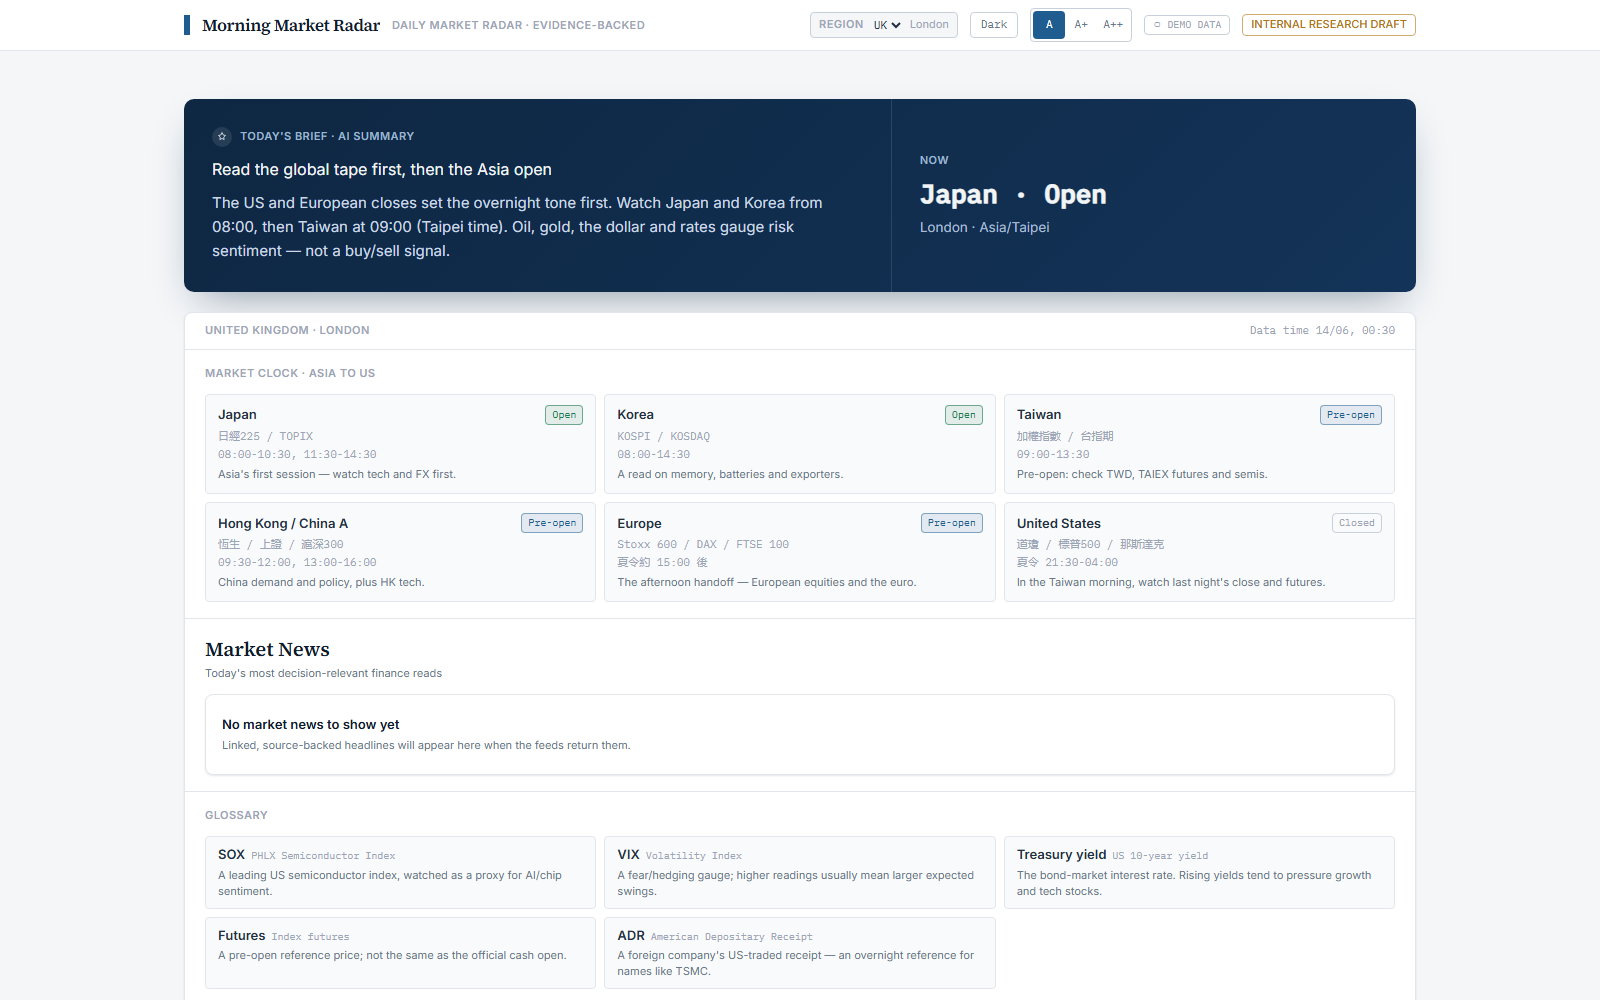
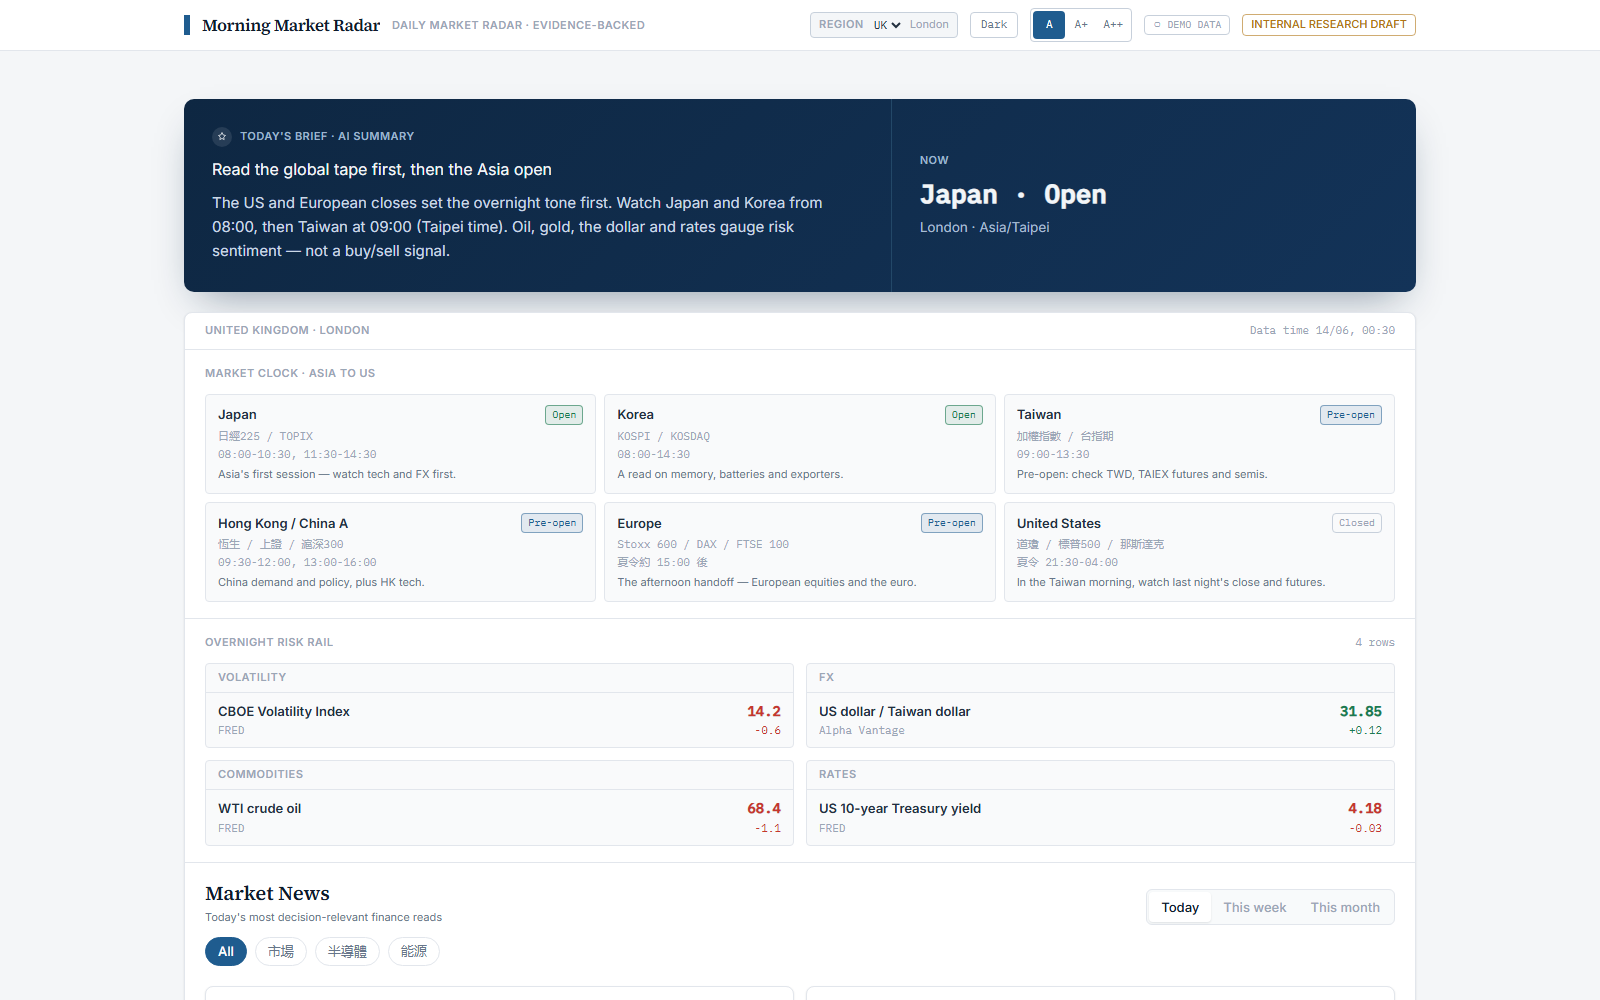
content: phase-2 refresh — rename projects, MoveIn/redteam rebrand, PyPI links (#46)
Project pages
- Agent Release Safety Gates: slug internal-ai-agent-eval-lab ->
  agent-release-gates; add PyPI link, uv/OpenTelemetry to stack, and
  swap metrics to safety recall (90.91%) + side-effect block (100%)
- redteam-foundry: rename from llm-redteam-harness; new foundry-framed
  summary, `pip install redteam-foundry`, PyPI link (v0.2.1 shipped)
- MoveIn: rename from uk-property-analytics; rewrite for the shipped
  Next.js website (Vercel) + public FastAPI (Fly.io), drop the retired
  Streamlit framing. GitHub repo is now `movein`; dead github.io dbt-docs
  report link removed (was 404ing live)

Screenshots (npm run shots)
- Refresh Cited (now shows the live FRED risk rail) and confirm neobank
- New MoveIn capture from the live website; agent screenshot renamed

Site
- Add reusable `pypi` link type + "PyPI" button on project pages
- 308 redirects for all three old /projects slugs -> new
- site-config name -> "Cheng-Yuan King" (shortName stays "Ross King");
  public contact email unchanged
- "Now building": cashflow-risk blurb upgraded (drop "early days")

Verified: 30/30 vitest, tsc, build (23 pages), 14/14 Playwright incl.
axe a11y, check:links 19 ok / 0 / 0, all old slugs 308 to new.

diff --git a/src/app/projects/[slug]/page.tsx b/src/app/projects/[slug]/page.tsx
@@ -1,6 +1,13 @@
 import type { Metadata } from "next";
 import { compileMDX } from "next-mdx-remote/rsc";
-import { ArrowLeft, ExternalLink, FileText, Github, ScrollText } from "lucide-react";
+import {
+  ArrowLeft,
+  ExternalLink,
+  FileText,
+  Github,
+  Package,
+  ScrollText,
+} from "lucide-react";
 import Link from "next/link";
 import { notFound } from "next/navigation";
 import rehypePrettyCode from "rehype-pretty-code";
@@ -160,6 +167,18 @@ export default async function ProjectPage({ params }: ProjectPageProps) {
                   >
                     <ScrollText aria-hidden="true" />
                     Paper
+                  </Link>
+                </Button>
+              )}
+              {project.links.pypi && (
+                <Button asChild variant="outline" size="sm">
+                  <Link
+                    href={project.links.pypi}
+                    target="_blank"
+                    rel="noopener noreferrer"
+                  >
+                    <Package aria-hidden="true" />
+                    PyPI
                   </Link>
                 </Button>
               )}

diff --git a/next.config.ts b/next.config.ts
@@ -62,6 +62,20 @@ const nextConfig: NextConfig = {
     optimizePackageImports: ["lucide-react", "motion"],
   },
 
+  // Project pages that were renamed keep their old URLs working.
+  async redirects() {
+    const slugMoves = [
+      ["internal-ai-agent-eval-lab", "agent-release-gates"],
+      ["llm-redteam-harness", "redteam-foundry"],
+      ["uk-property-analytics", "movein"],
+    ];
+    return slugMoves.map(([from, to]) => ({
+      source: `/projects/${from}`,
+      destination: `/projects/${to}`,
+      permanent: true,
+    }));
+  },
+
   async headers() {
     return [
       {

diff --git a/src/lib/now-building.ts b/src/lib/now-building.ts
@@ -18,6 +18,7 @@ export const nowBuilding: readonly NowBuildingEntry[] = [
   },
   {
     name: "cashflow-risk",
-    blurb: "Cash-flow risk modelling — early days",
+    blurb:
+      "Late-payment cash-runway risk tool for UK SMEs — 13-week forecast, invoice/customer risk ranking, and a plain-English weekly action brief. Multi-tenant RBAC, STRIDE threat model, DPIA.",
   },
 ] as const;

diff --git a/src/lib/site-config.ts b/src/lib/site-config.ts
@@ -3,7 +3,7 @@
  * Update values here rather than hard-coding them in components.
  */
 export const siteConfig = {
-  name: "Cheng-Yuan (Ross) King",
+  name: "Cheng-Yuan King",
   shortName: "Ross King",
   role: "MSc Artificial Intelligence · Applied AI, Data Science & Evaluation",
   // Long-form hero/bio copy. Shown on the page; NOT used as the SEO meta tags.

diff --git a/tests/e2e/about.spec.ts b/tests/e2e/about.spec.ts
@@ -9,7 +9,7 @@ test.describe("about page", () => {
     // The page's single h1 is the positioning statement; the name sits in the
     // registration mark above it.
     await expect(page.getByRole("heading", { level: 1 })).toBeVisible();
-    await expect(page.getByText("Cheng-Yuan (Ross) King").first()).toBeVisible();
+    await expect(page.getByText("Cheng-Yuan King").first()).toBeVisible();
     await expect(page.getByText("Education", { exact: true })).toBeVisible();
     await expect(
       page.getByRole("heading", { name: "MSc Artificial Intelligence" }),

diff --git a/src/lib/projects.ts b/src/lib/projects.ts
@@ -42,6 +42,7 @@ const frontMatterSchema = z.object({
       demo: z.string().url().optional(),
       paper: z.string().url().optional(),
       report: z.string().url().optional(),
+      pypi: z.string().url().optional(),
     })
     .optional(),
 });

diff --git a/src/types/project.ts b/src/types/project.ts
@@ -22,6 +22,7 @@ export interface ProjectMeta {
     demo?: string;
     paper?: string;
     report?: string;
+    pypi?: string;
   };
 }
 